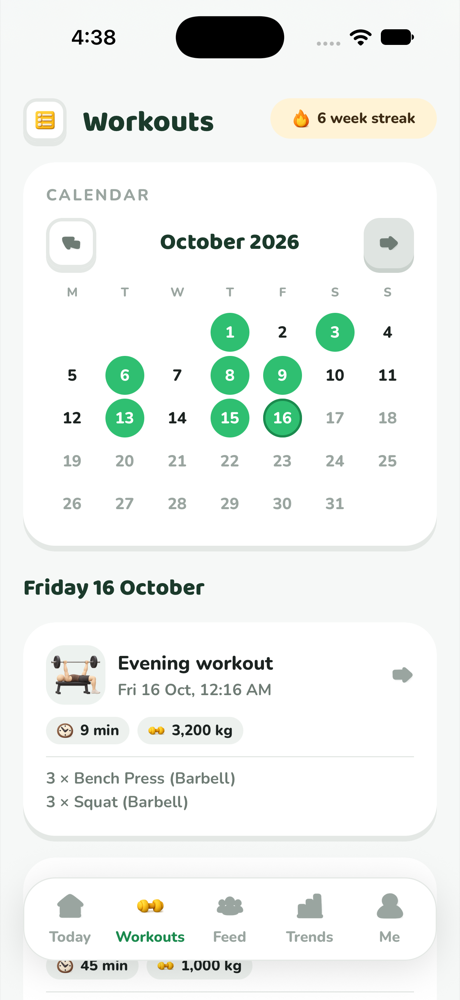
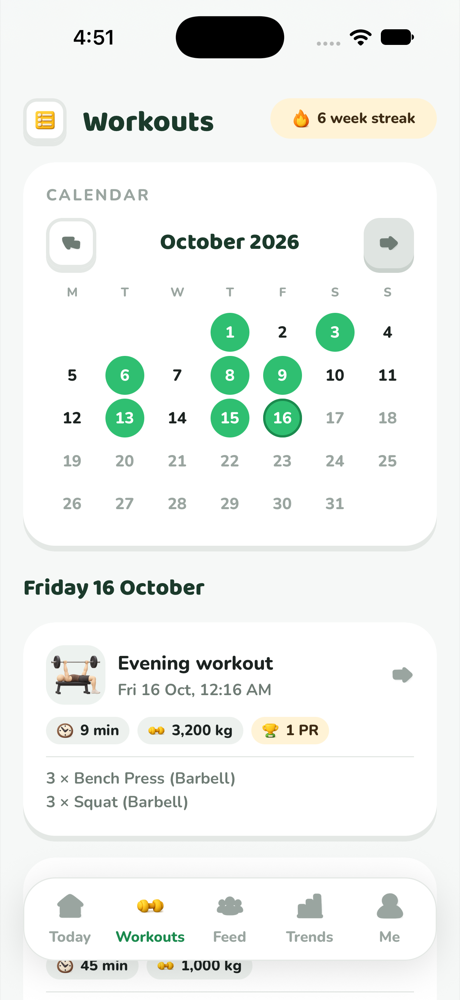
Fix what review found in the Workouts tab polish: calendar records and queued workouts, a clearer picked day, a scoped Year query and a stable month test

Changed region(s): [[0.5478, 0.713, 0.7304, 0.744], [0.1522, 0.031, 0.2435, 0.062]]

diff --git a/apps/mobile/src/data/workouts.ts b/apps/mobile/src/data/workouts.ts
@@ -195,24 +195,31 @@ export function useWorkouts() {
   })
 }
 
-/** One day's workouts, for Today. */
-export function useWorkoutsOn(date: string) {
+/**
+ * One day's workouts. Today's row shows no records, and leaving the count out
+ * lets the planner skip scoring them: 0.3 ms rather than 270 on a long
+ * history. The Workouts tab's calendar draws history cards, which show them,
+ * so it asks with `records` and pays for one day.
+ */
+export function useWorkoutsOn(date: string, { records = false }: { records?: boolean } = {}) {
   const userId = useUserId()
 
   return useQuery({
-    queryKey: keys.workoutsOn(userId, date),
+    queryKey: records ? keys.workoutsOnWithRecords(userId, date) : keys.workoutsOn(userId, date),
     gcTime: KEPT_A_DAY,
-    queryFn: async (): Promise<WorkoutSummary[]> =>
-      unwrap(
-        await supabase
-          .from('workout_summaries')
-          // Today's row shows no records, and leaving the count out lets the
-          // planner skip scoring them: 0.3 ms rather than 270 on a long history.
-          .select(SUMMARY_WITHOUT_RECORDS)
+    queryFn: async (): Promise<WorkoutSummary[]> => {
+      // Two literal selects rather than one chosen string, which the typed
+      // client cannot parse.
+      const rows = records
+        ? supabase.from('workout_summaries').select('*')
+        : supabase.from('workout_summaries').select(SUMMARY_WITHOUT_RECORDS)
+      return unwrap(
+        await rows
           .eq('user_id', userId)
           .eq('log_date', date)
           .order('started_at', { ascending: true }),
-      ).map(toSummary),
+      ).map(toSummary)
+    },
   })
 }
 
@@ -372,24 +379,26 @@ export function useWorkoutWeeks(weeks = 12) {
 }
 
 /**
- * The same totals by calendar month, from the first workout's month (or a year
- * back, whichever is earlier) to this one. `week` is the month's first day, so
- * one chart draws either.
+ * The same totals by calendar month, up to this one: the last `months` of
+ * them, or with null every month from the first workout's (never fewer than
+ * twelve). `week` is the month's first day, so one chart draws either.
  */
-export function useWorkoutMonths(enabled = true) {
+export function useWorkoutMonths(months: number | null, enabled = true) {
   const userId = useUserId()
 
   return useQuery({
-    queryKey: keys.workoutMonths(userId),
+    queryKey: keys.workoutMonths(userId, months),
     enabled,
     queryFn: async (): Promise<WorkoutWeek[]> =>
-      unwrap(await supabase.rpc('workout_months')).map((row) => ({
-        week: row.month,
-        workouts: row.workouts,
-        durationS: row.duration_s,
-        volumeKg: num(row.volume_kg) ?? 0,
-        sets: row.sets,
-      })),
+      unwrap(await supabase.rpc('workout_months', months === null ? {} : { p_months: months })).map(
+        (row) => ({
+          week: row.month,
+          workouts: row.workouts,
+          durationS: row.duration_s,
+          volumeKg: num(row.volume_kg) ?? 0,
+          sets: row.sets,
+        }),
+      ),
   })
 }
 

diff --git a/apps/mobile/app/(tabs)/workouts.tsx b/apps/mobile/app/(tabs)/workouts.tsx
@@ -19,6 +19,7 @@ import {
   useWorkoutsOn,
   type WorkoutSummary,
 } from '@/data'
+import type { WorkoutDocument } from '@/data/workout-outbox'
 import { ScreenTitle } from '@/features/shared'
 import {
   ActionSheet,
@@ -121,7 +122,7 @@ export default function WorkoutsScreen() {
       />
 
       {calendar ? (
-        <CalendarView day={day} onDay={setDay} unit={unit} onOpen={openWorkout} />
+        <CalendarView day={day} onDay={setDay} unit={unit} outbox={outbox} onOpen={openWorkout} />
       ) : (
         <>
           {/* Medium rather than large: it is the first thing on the tab, and the
@@ -297,15 +298,28 @@ function CalendarView({
   day,
   onDay,
   unit,
+  outbox,
   onOpen,
 }: {
   day: string
   onDay: (date: string) => void
   unit: WeightUnit
+  outbox: readonly WorkoutDocument[]
   onOpen: (workout: WorkoutSummary) => void
 }) {
   const { t } = useTranslation(['workouts'])
-  const workouts = useWorkoutsOn(day)
+  // With records, so a card here carries the same PR badge it has in History.
+  const saved = useWorkoutsOn(day, { records: true })
+  // And the day's workouts still on the phone, as History lists them, or one
+  // finished offline is missing from its own day.
+  const list = useMemo(() => {
+    const rows = saved.data ?? []
+    const ids = new Set(rows.map((workout) => workout.id))
+    const pending = outbox
+      .filter((document) => document.log_date === day && !ids.has(document.id))
+      .map(summaryFromDocument)
+    return [...pending, ...rows]
+  }, [saved.data, outbox, day])
 
   return (
     <>
@@ -313,18 +327,18 @@ function CalendarView({
       <Text variant="subtitle" className="pt-2">
         {format(parseISO(day), datePattern('weekdayDayMonthLong'))}
       </Text>
-      {workouts.isPending && !workouts.isPaused ? (
-        <Card>
-          <Skeleton className="h-[120px] w-full" />
-        </Card>
-      ) : workouts.data?.length ? (
+      {list.length ? (
         <View className="gap-stack">
-          {workouts.data.map((workout) => (
+          {list.map((workout) => (
             <WorkoutCard key={workout.id} workout={workout} unit={unit} onPress={onOpen} />
           ))}
         </View>
-      ) : !workouts.data ? (
-        <Unavailable offline={workouts.isPaused} />
+      ) : saved.isPending && !saved.isPaused ? (
+        <Card>
+          <Skeleton className="h-[120px] w-full" />
+        </Card>
+      ) : !saved.data ? (
+        <Unavailable offline={saved.isPaused} />
       ) : (
         <EmptyRow
           icon={{ set: 'body', name: 'stopwatch' }}

diff --git a/apps/mobile/src/features/progress/TrendLine.tsx b/apps/mobile/src/features/progress/TrendLine.tsx
@@ -13,6 +13,7 @@ import { useWindowDimensions, View } from 'react-native'
 import { Gesture, GestureDetector } from 'react-native-gesture-handler'
 import { runOnJS } from 'react-native-reanimated'
 
+import { labelWidth } from '@/features/shared/axis'
 import { useThemeColors } from '@/theme/useTheme'
 import { cn, Text } from '@/ui'
 
@@ -56,25 +57,8 @@ export type TrendLineProps = {
   className?: string
 }
 
-/**
- * About how wide an axis label's character draws at `micro` (11pt): a full em
- * for CJK, Hangul and kana, a narrow space, and roughly 6.5pt for the rest.
- * An estimate, so `LABEL_GAP` is generous: it only has to say whether seven
- * weekdays fit, which they do on a phone and twenty dates do not.
- */
-const LABEL_CHAR = 6.5
-const LABEL_WIDE = 11
-const LABEL_SPACE = 3
+/** The gap between two axis labels, so neighbours never touch. */
 const LABEL_GAP = 8
-const WIDE = /[ᄀ-ᇿ⺀-鿿가-힯豈-﫿＀-￯]/
-
-function labelWidth(label: string): number {
-  let width = 0
-  for (const char of label) {
-    width += char === ' ' ? LABEL_SPACE : WIDE.test(char) ? LABEL_WIDE : LABEL_CHAR
-  }
-  return width
-}
 
 /** Stroke width, and the radius the end cap needs to clear the edges. */
 const STROKE = 3

diff --git a/apps/mobile/src/data/keys.ts b/apps/mobile/src/data/keys.ts
@@ -183,12 +183,15 @@ export const keys = {
   workoutsAll: (userId: string) => ['workouts', userId] as const,
   workouts: (userId: string) => ['workouts', userId, 'list'] as const,
   workoutsOn: (userId: string, date: string) => ['workouts', userId, 'day', date] as const,
+  workoutsOnWithRecords: (userId: string, date: string) =>
+    ['workouts', userId, 'day', date, 'records'] as const,
   workout: (userId: string, id: string) => ['workouts', userId, 'one', id] as const,
   workoutOverview: (userId: string) => ['workouts', userId, 'overview'] as const,
   workoutDates: (userId: string, from: string, to: string) =>
     ['workouts', userId, 'dates', from, to] as const,
   workoutWeeks: (userId: string, weeks: number) => ['workouts', userId, 'weeks', weeks] as const,
-  workoutMonths: (userId: string) => ['workouts', userId, 'months'] as const,
+  workoutMonths: (userId: string, months: number | null) =>
+    ['workouts', userId, 'months', months] as const,
   exerciseTotals: (userId: string, from: string, to: string) =>
     ['workouts', userId, 'exercise-totals', from, to] as const,
   exerciseBests: (userId: string, exerciseId: string | null) =>

diff --git a/apps/mobile/src/features/shared/BarChart.tsx b/apps/mobile/src/features/shared/BarChart.tsx
@@ -1,7 +1,7 @@
 import { StyleSheet, useWindowDimensions, View } from 'react-native'
 
 import { cn, Tappable, Text } from '@/ui'
-import { axisTicks } from './axis'
+import { axisTicks, labelWidth } from './axis'
 
 export type Bar = {
   key: string
@@ -55,21 +55,8 @@ export type BarChartProps = {
   className?: string
 }
 
-/**
- * About how wide a `micro` (11pt) character draws: an estimate for the axis
- * gutter, as `TrendLine` makes one. A full em for CJK, Hangul and kana.
- */
-const LABEL_CHAR = 6.5
-const LABEL_WIDE = 11
-const WIDE = /[ᄀ-ᇿ⺀-鿿가-힯豈-﫿＀-￯]/
 /** Half the `micro` line, to centre a label on its rule. */
 const HALF_LINE = 7
-
-function labelWidth(label: string): number {
-  let width = 0
-  for (const char of label) width += WIDE.test(char) ? LABEL_WIDE : LABEL_CHAR
-  return width
-}
 
 const fills = {
   pandan: 'bg-pandan',

diff --git a/apps/mobile/src/features/shared/axis.ts b/apps/mobile/src/features/shared/axis.ts
@@ -1,4 +1,23 @@
 /**
+ * About how wide an axis label's character draws at `micro` (11pt): a full em
+ * for CJK, Hangul and kana, a narrow space, and roughly 6.5pt for the rest.
+ * An estimate, shared by `TrendLine` and `BarChart`'s scale gutter: it only
+ * has to say whether a row of labels fits, not lay one out.
+ */
+const LABEL_CHAR = 6.5
+const LABEL_WIDE = 11
+const LABEL_SPACE = 3
+const WIDE = /[ᄀ-ᇿ⺀-鿿가-힯豈-﫿＀-￯]/
+
+export function labelWidth(label: string): number {
+  let width = 0
+  for (const char of label) {
+    width += char === ' ' ? LABEL_SPACE : WIDE.test(char) ? LABEL_WIDE : LABEL_CHAR
+  }
+  return width
+}
+
+/**
  * Round steps from zero to just above `peak`, about three of them: 1, 2, 2.5
  * or 5 times a power of ten of `unit`, and never less than one unit, so a
  * count of workouts is not ruled in halves.

diff --git a/apps/mobile/src/features/workouts/routineGate.ts b/apps/mobile/src/features/workouts/routineGate.ts
@@ -19,9 +19,13 @@ import { useToast } from '@/ui'
 export function useRoutineGate() {
   const toast = useToast()
   const requirePro = useRequirePro()
-  const { entitled } = useEntitlement()
+  const { entitled, loading, unknown } = useEntitlement()
   const routines = useRoutines()
-  const atLimit = !entitled && (routines.data?.length ?? 0) >= FREE_ROUTINES
+  // Only a known free account is held back. While the answer is loading, or
+  // offline, the button opens the editor and the trigger decides at Save:
+  // stopping a Pro account at launch with "checking" was a button that did
+  // nothing on the first tap.
+  const atLimit = !entitled && !loading && !unknown && (routines.data?.length ?? 0) >= FREE_ROUTINES
 
   return {
     /** Whether a new routine may be started. Shows the paywall when not. */

diff --git a/apps/mobile/app/workout/edit/[id].tsx b/apps/mobile/app/workout/edit/[id].tsx
@@ -34,9 +34,14 @@ import { AppBar, Button, Screen, useToast } from '@/ui'
  */
 export default function EditWorkoutScreen() {
   const { id } = useLocalSearchParams<{ id: string }>()
-  const query = useWorkout(id)
+  // `new` was the past-workout form. A link to it from an older build is a
+  // workout that is not there, not a request that failed: asking for it
+  // would send "new" as a uuid and come back as an error.
+  const retired = id === 'new'
+  const query = useWorkout(retired ? undefined : id)
   const saved = query.data
 
+  if (retired) return <WorkoutUnavailable />
   if (!saved) return <WorkoutUnavailable state={unavailableState(query)} />
   // Keyed by the route's id: a link that reuses this screen for another
   // workout kept the first one's document in the reducer and saved it under

diff --git a/apps/mobile/src/features/workouts/WorkoutCalendar.tsx b/apps/mobile/src/features/workouts/WorkoutCalendar.tsx
@@ -135,9 +135,10 @@ function DayCircle({
       collapsable={false}
       className={cn(
         'h-[34px] w-[34px] items-center justify-center rounded-full',
-        trained ? 'bg-pandan' : picked || isToday ? 'border-2 border-pandan' : undefined,
-        // The picked day keeps its fill and gains a darker ring.
-        picked && trained && 'border-2 border-pandan-ink',
+        // Today is a green ring; the picked day a darker one, over a pale fill
+        // when it had no workout, so the two never look alike.
+        trained ? 'bg-pandan' : picked ? 'bg-pandan-soft' : undefined,
+        picked ? 'border-2 border-pandan-ink' : isToday && !trained && 'border-2 border-pandan',
       )}
     >
       <Text

diff --git a/apps/mobile/app/workout/stats.tsx b/apps/mobile/app/workout/stats.tsx
@@ -119,7 +119,8 @@ function Totals({ unit }: { unit: WeightUnit }) {
   const { entitled } = useEntitlement()
   const shownRange = entitled ? range : '3m'
   const weeks = useWorkoutWeeks(FREE_WEEKS)
-  const months = useWorkoutMonths(shownRange !== '3m')
+  // A year asks for twelve months, so only that year's sets are added up.
+  const months = useWorkoutMonths(shownRange === '1y' ? 12 : null, shownRange !== '3m')
   const query = shownRange === '3m' ? weeks : months
   const periods = useMemo(
     () => (query.data ? periodsFor(shownRange, query.data) : null),

diff --git a/apps/mobile/src/lib/database.types.ts b/apps/mobile/src/lib/database.types.ts
@@ -3608,7 +3608,7 @@ export type Database = {
         }
       }
       workout_months: {
-        Args: never
+        Args: { p_months?: number }
         Returns: {
           duration_s: number
           month: string

diff --git a/README.md b/README.md
@@ -3754,7 +3754,10 @@ on the progress screen; the week streak sits beside the tab's title, as the day
 streak does on Today. The toggle on the title's other side is Today's too: it
 swaps the tab for the month (`WorkoutCalendar`, the progress page's calendar
 with days that can be picked), every trained day filled, and under it the
-workouts of the day tapped, today until another is. Settings exports every set as CSV and imports
+workouts of the day tapped, today until another is. That list is History's
+cards for one day, PR badges included (it asks for the record counts History
+has, for one day's workouts), and it holds the day's workouts still waiting to
+sync, as History does. Settings exports every set as CSV and imports
 a history from Strong or Hevy.
 
 ### The catalogue is code, and every entry has a drawing
@@ -3840,7 +3843,10 @@ refuses a fourth insert with `routine_limit_reached`, as the recipe ceiling does
 saved as one count too. The three ways to make one ("New routine", the first
 row of the tab's list under the routines, "Add to my routines" and "Save as
 routine") check the list on screen first (`useRoutineGate`) and open the paywall before anything is built;
-the trigger is the last word for a routine added on another phone. Editing,
+the trigger is the last word for a routine added on another phone. Only a
+known free account is stopped at the button: while the subscription is still
+being checked, or cannot be, the editor opens and the trigger decides at Save,
+so a Pro account is never told "checking" by New routine at launch. Editing,
 starting and deleting are never gated, and an account that lapses with more
 than three keeps them all.
 
@@ -3958,10 +3964,11 @@ the same flag on every one of 5,000 sets as before.
   one row is the heaviest weight again.
 - **The streak is in weeks**, ending this week or last. A daily streak punishes
   exactly the rest days a program prescribes.
-- **The progress bars** are `workout_weeks(13)` for three months and
-  `workout_months()` for a year and all time: every month from the first
-  workout's (or eleven months back, if that is earlier, so a year is always
-  twelve bars) to this one, empty ones included. A year of weeks would be 52
+- **The progress bars** are `workout_weeks(13)` for three months,
+  `workout_months(12)` for a year, and `workout_months()` for all time: every
+  month from the first workout's (or eleven months back, if that is earlier) to
+  this one, empty ones included. A year passes its length so only that year's
+  sets are added up; all time reads the whole history once. A year of weeks would be 52
   bars too thin to tap, and `workout_weeks` stops at 104. All time past two
   years of months is summed into years on the phone (`periodsFor`). The ranges
   past three months are Pro, gated in the client alone like the Trends ranges:
